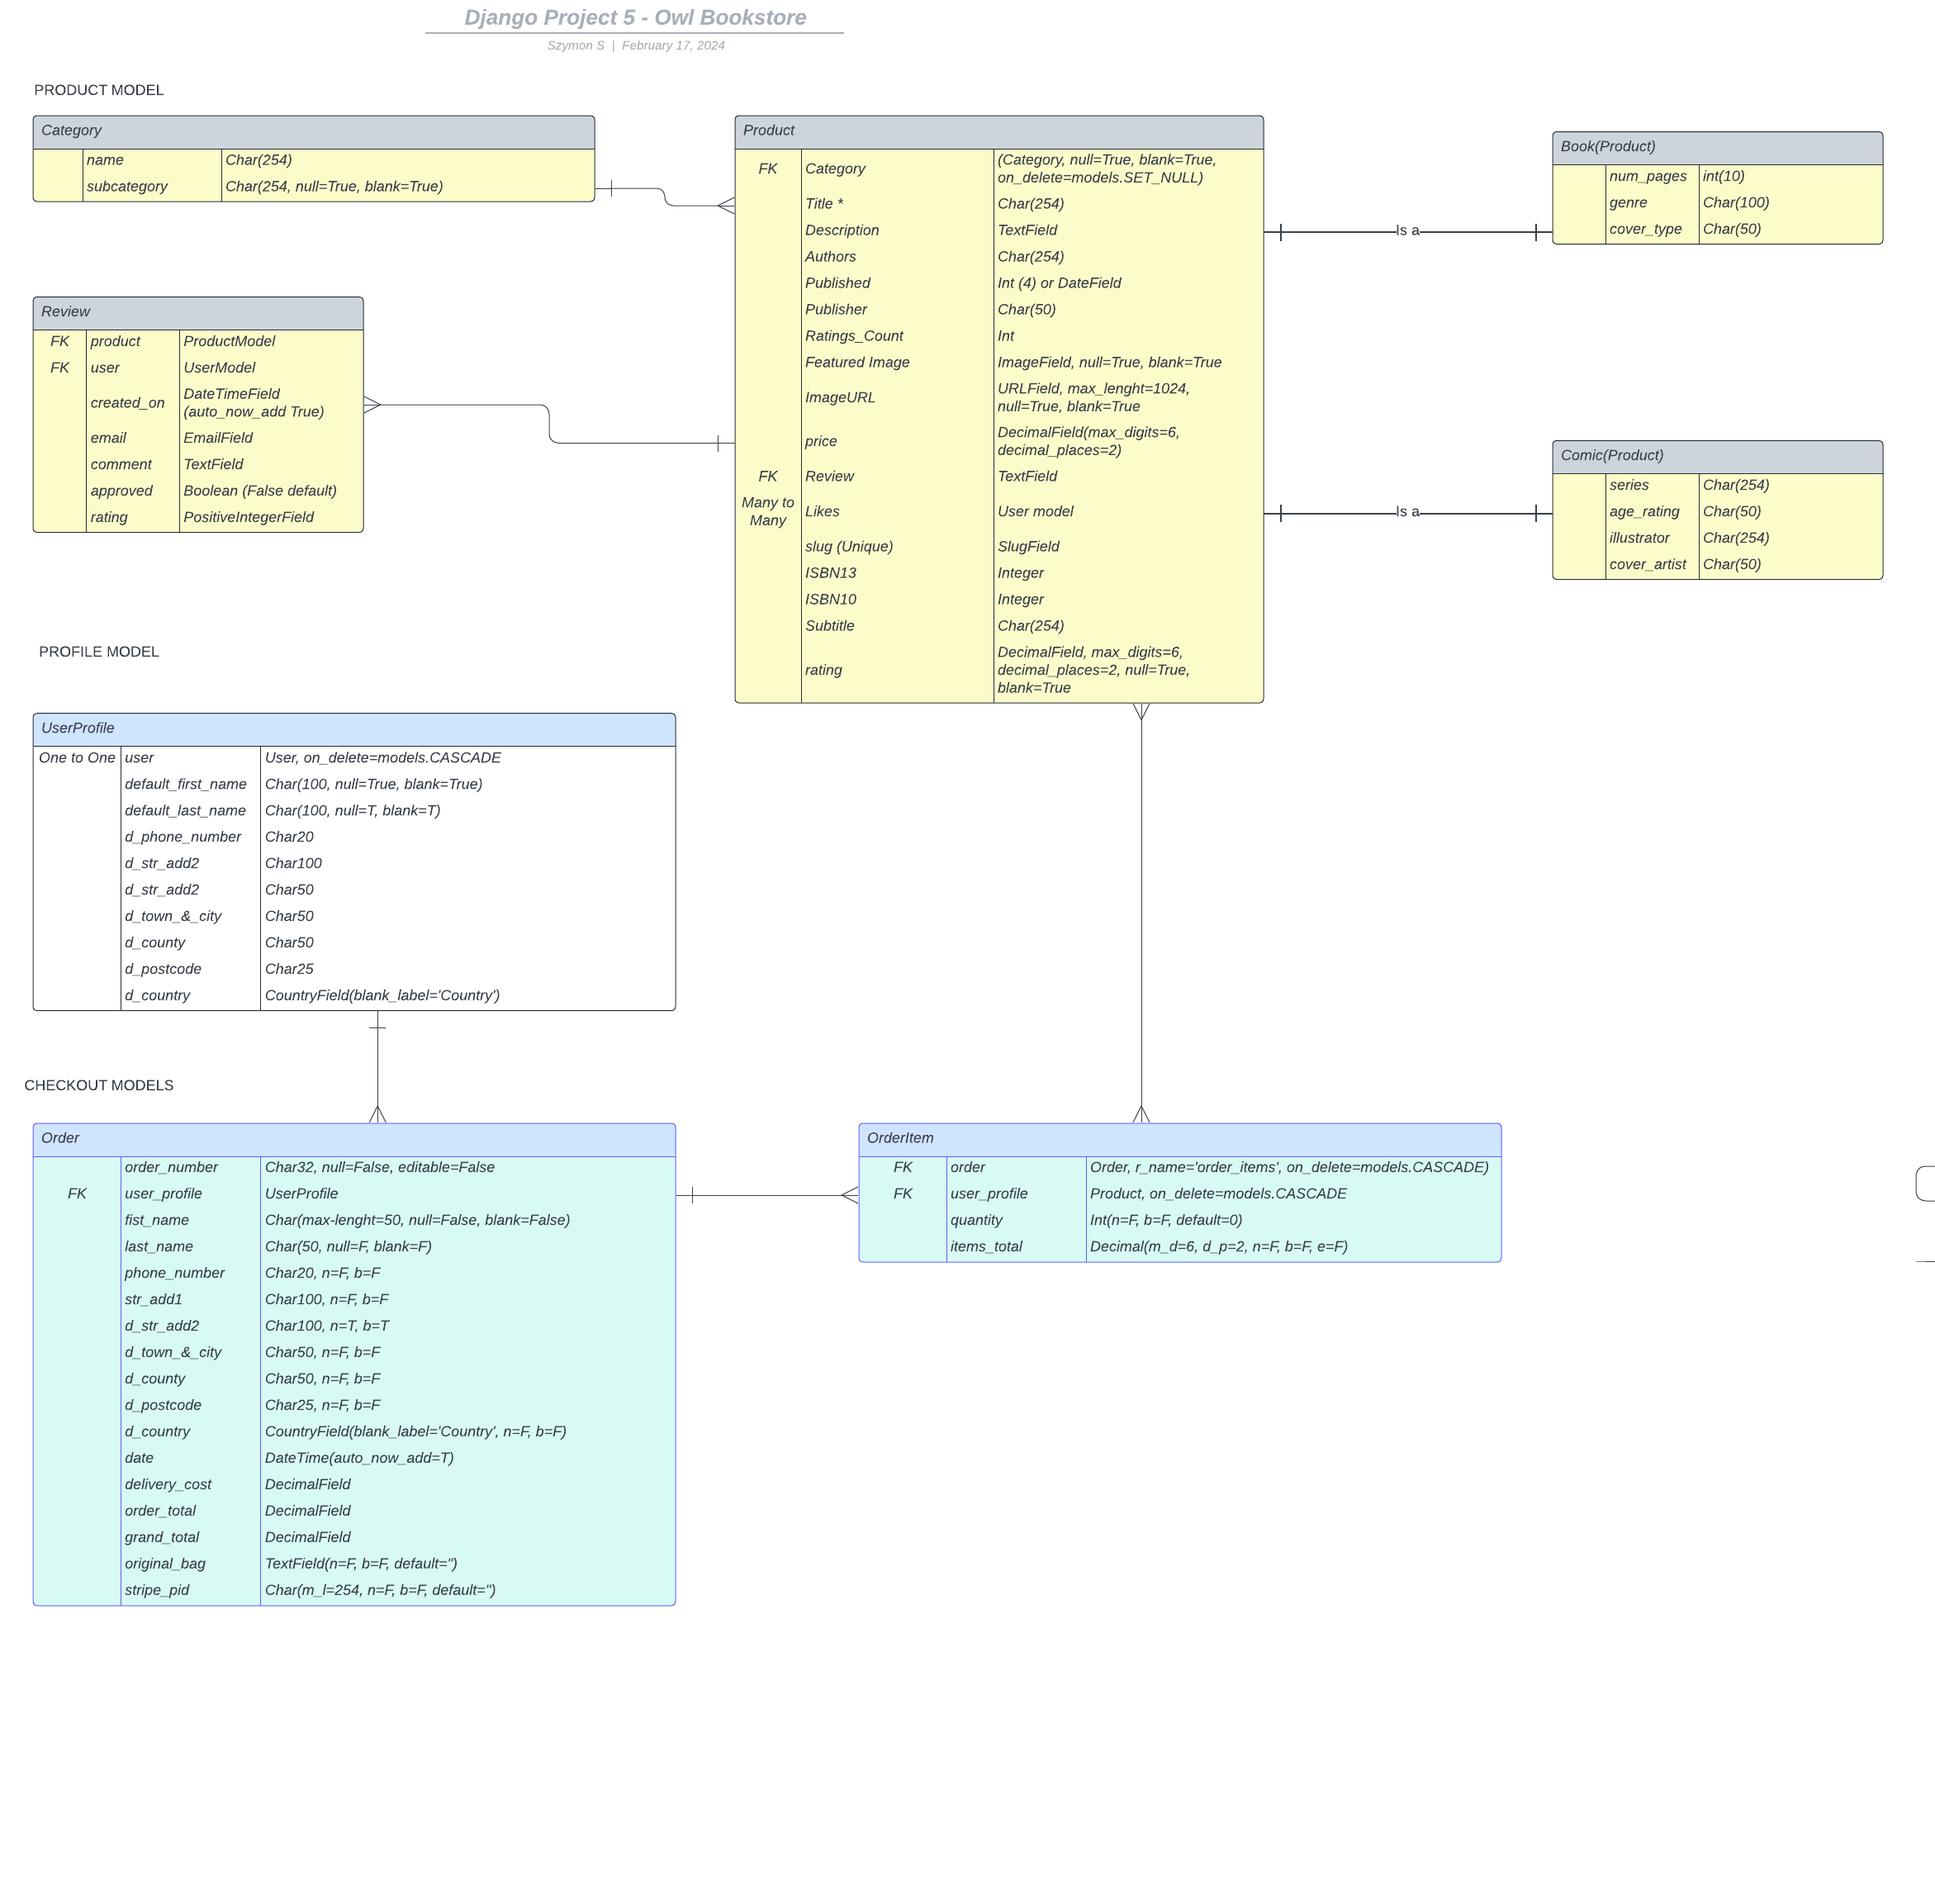
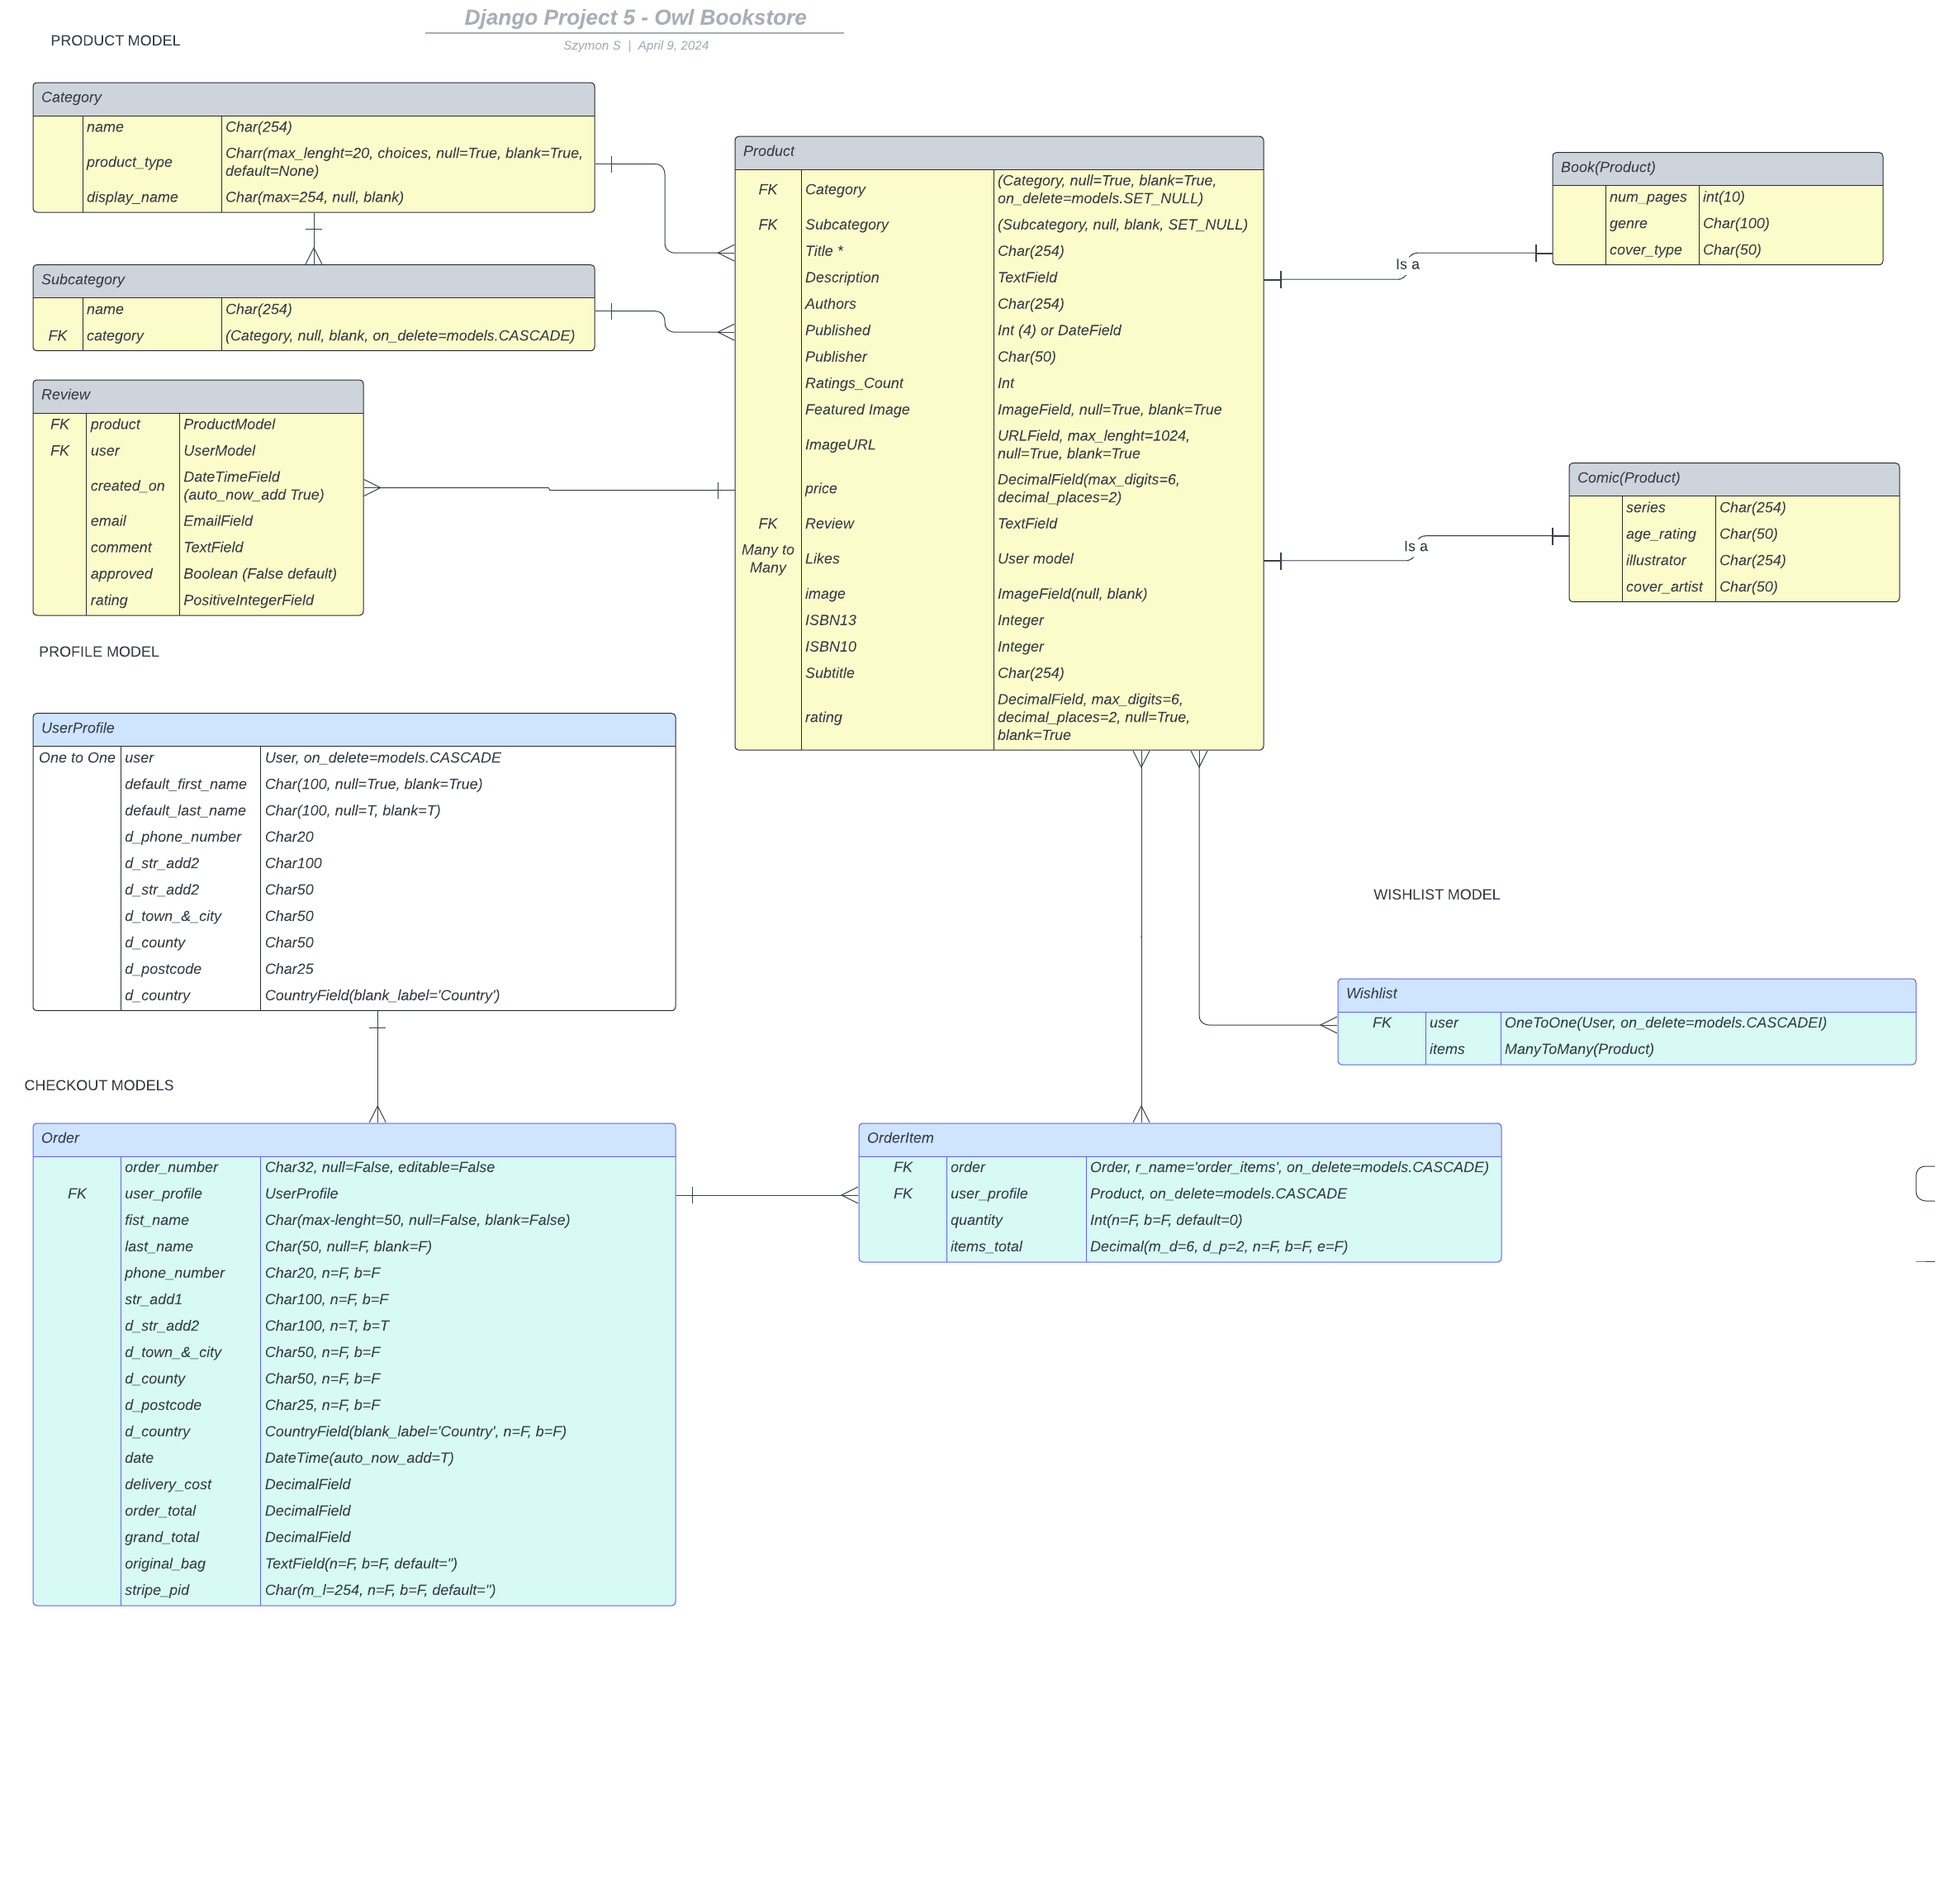
Update readme file - wihslist model

diff --git a/README.md b/README.md
@@ -574,6 +574,15 @@ Entity Relationship Diagram (ERD)
     Methods:
     - save(self, *args, **kwargs): Overrides the original save method to set the line item total and update the order total.
 
+11. Wishlist:
+
+    - The Wishlist model allows users to create and manage their wishlists, associating them with their user accounts and allowing them to add multiple products to their wishlists.
+
+    Fields:
+
+    - user: This field establishes a one-to-one relationship with the User model, and it means that each Wishlist instance is associated with exactly one User. The on_delete=models.CASCADE parameter ensures that if a user is deleted, their associated wishlist will also be deleted.
+    - items: This field establishes a many-to-many relationship with the Product model from products.models. It means that each Wishlist instance can contain multiple products, and each product can belong to multiple wishlists. This relationship is represented by a separate table in the database to handle the many-to-many relationship efficiently.
+
     These models facilitate the management of orders in the OwlBookstore system, allowing users to place orders, view order history, and track deliveries. The inclusion of methods ensures accurate calculation and updating of order totals.
 
 ---
